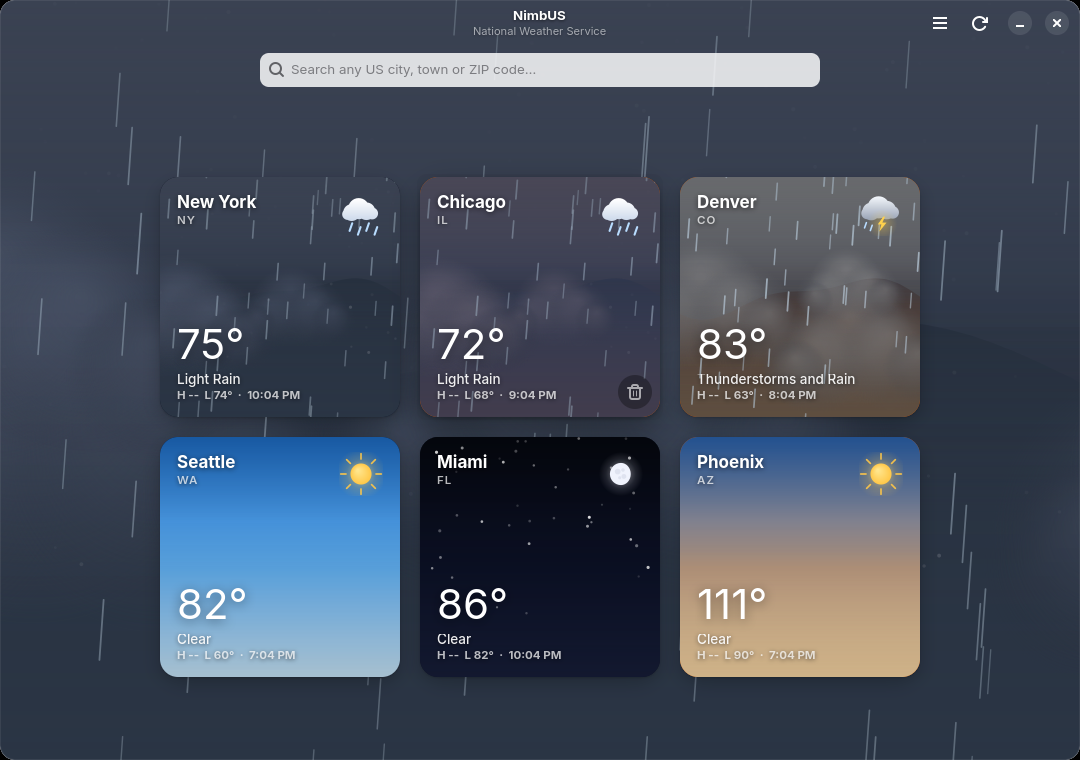
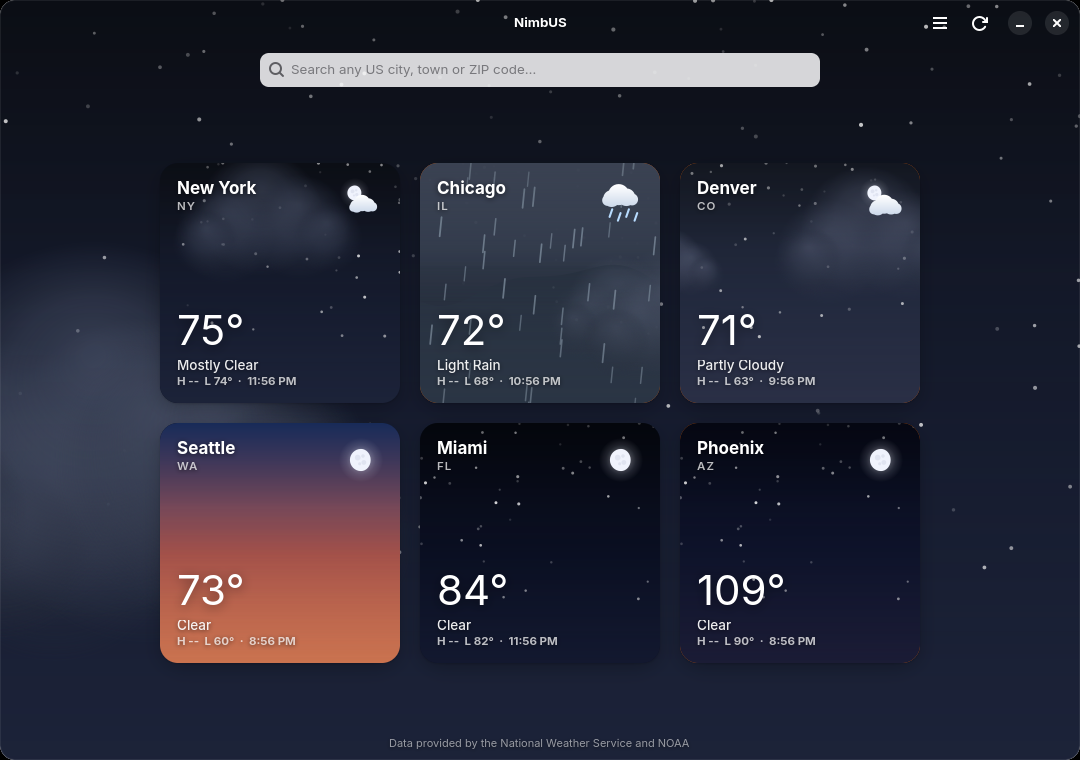
Credit the data at the foot of every page
The header subtitle read like an official byline, so it is gone. In its
place, a quiet credit line -- "Data provided by the National Weather
Service and NOAA" -- sits at the very bottom of the dashboard, pinned
beneath the grid, and at the end of each city page's scroll. The README
screenshots are recaptured to match.

diff --git a/nimbus/ui/style.css b/nimbus/ui/style.css
@@ -150,6 +150,15 @@
   background-color: alpha(var(--window-bg-color, @window_bg_color), 0.95);
 }
 
+/* The credit line sits directly on the sky at the foot of the dashboard
+   and each city page, so it takes the over-sky text treatment. */
+.data-credit {
+  font-size: 11px;
+  color: rgba(255, 255, 255, 0.55);
+  text-shadow: 0 1px 4px rgba(0, 0, 0, 0.5);
+  margin: 4px 0 10px 0;
+}
+
 /* ------------------------------------------------------------ forecast */
 
 .forecast-period {

diff --git a/nimbus/ui/dashboard.py b/nimbus/ui/dashboard.py
@@ -340,8 +340,7 @@ class DashboardPage(Adw.NavigationPage):
         # Same treatment as the city page: the bar floats over the sky.
         header.add_css_class("flat")
         header.add_css_class("hero-header")
-        title = Adw.WindowTitle(title="NimbUS", subtitle="National Weather Service")
-        header.set_title_widget(title)
+        header.set_title_widget(Adw.WindowTitle(title="NimbUS"))
 
         refresh = Gtk.Button.new_from_icon_name("view-refresh-symbolic")
         refresh.set_tooltip_text("Refresh all")
@@ -386,6 +385,12 @@ class DashboardPage(Adw.NavigationPage):
         self._stack.add_named(self._build_results(), "results")
 
         toolbar.set_content(self._stack)
+
+        credit = Gtk.Label(
+            label="Data provided by the National Weather Service and NOAA"
+        )
+        credit.add_css_class("data-credit")
+        toolbar.add_bottom_bar(credit)
 
         # The live sky backs the whole dashboard, exactly as on a city page;
         # the first pinned city's weather drives the scene.

diff --git a/nimbus/ui/detail.py b/nimbus/ui/detail.py
@@ -538,6 +538,12 @@ class LocationPage(Adw.NavigationPage):
         )
         body.append(self._reveal_hint)
 
+        credit = Gtk.Label(
+            label="Data provided by the National Weather Service and NOAA"
+        )
+        credit.add_css_class("data-credit")
+        body.append(credit)
+
         return body
 
     def _build_today_card(self) -> Gtk.Widget:
